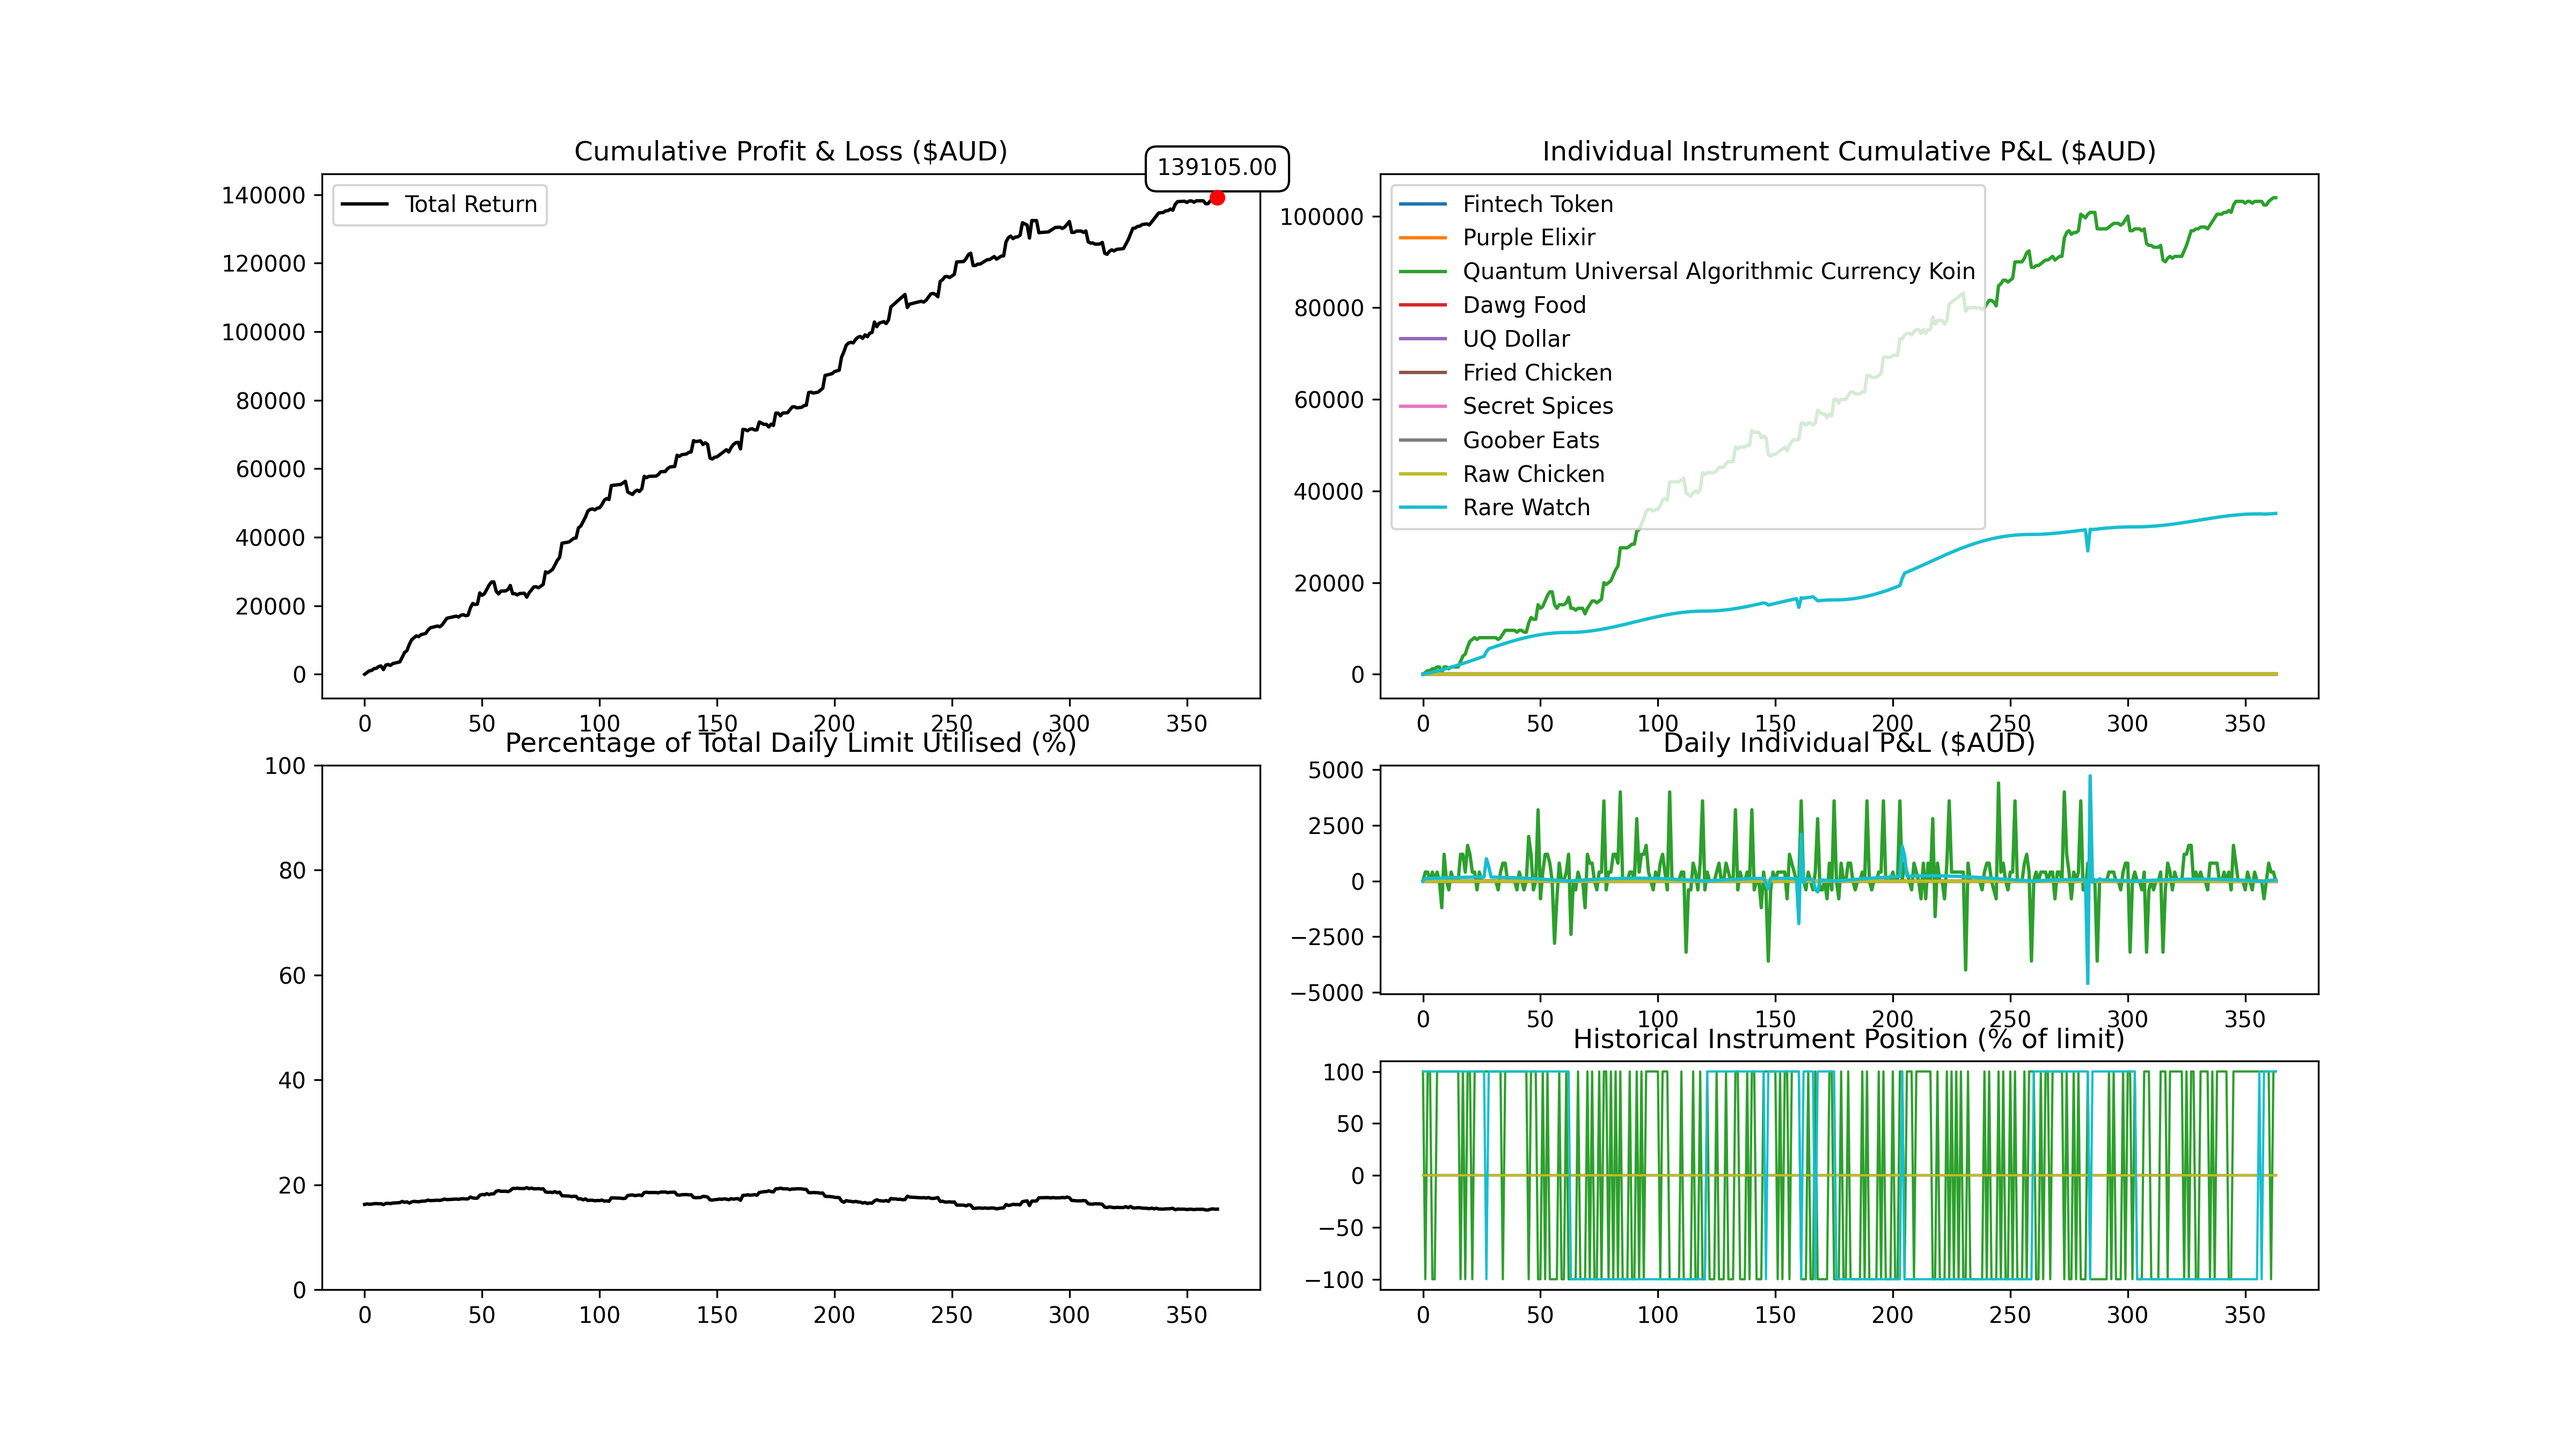
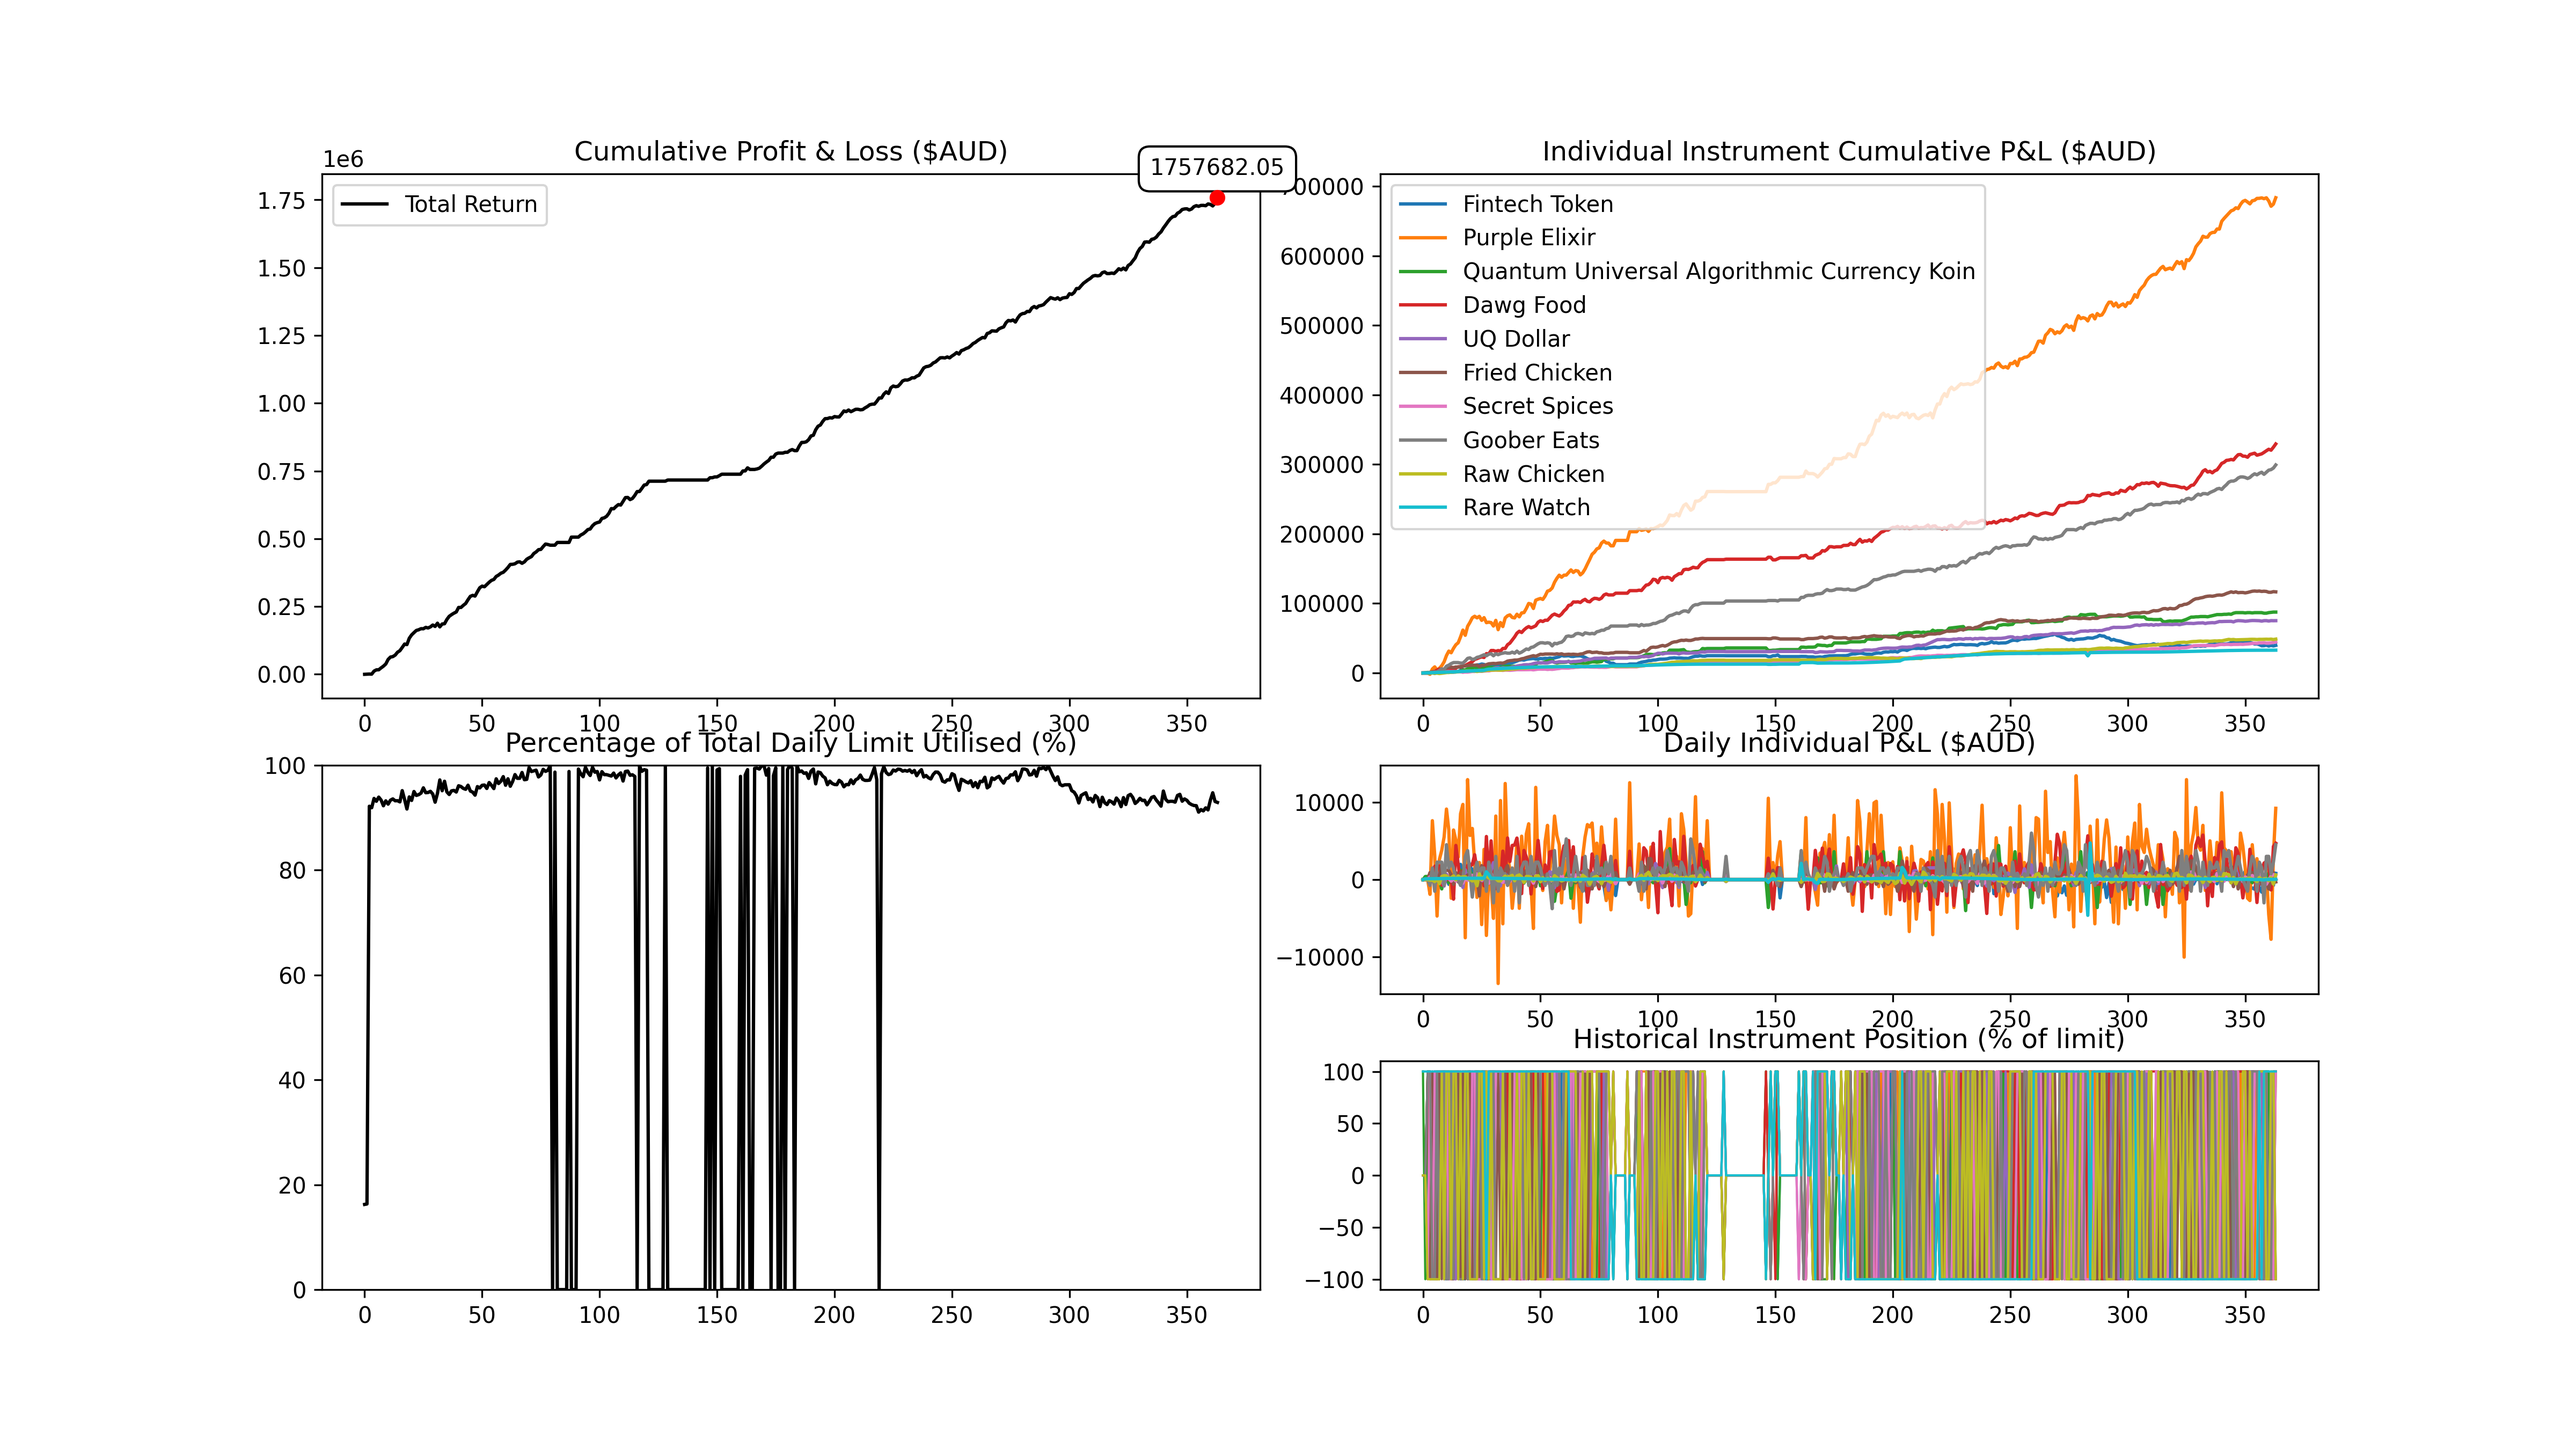
EMA

diff --git a/trader_interface/algorithm.py b/trader_interface/algorithm.py
@@ -42,13 +42,15 @@ class Algorithm():
         # Display the current trading day
         print("Starting Algorithm for Day:", self.day)
         
+        trade_instruments = list(positionLimits.keys())
+
+        # Display the prices of instruments I want to trade
+        for ins in trade_instruments:
+            print(f"{ins}: ${self.get_current_price(ins)}")
+
+
         # BENCH MARK -- 1409403
-        # trade_instruments = list(positionLimits.keys())
-        
-        # # Display the prices of instruments I want to trade
-        # for ins in trade_instruments:
-        #     print(f"{ins}: ${self.get_current_price(ins)}")
-        
+
         # # Start trading from Day 2 onwards. Buy if price dropped and sell if price rose compared to the previous day
         # if self.day >= 2:
         #     for ins in trade_instruments:
@@ -58,17 +60,41 @@ class Algorithm():
         #         else:
         #             desiredPositions[ins] = -positionLimits[ins]
 
+        # BENCH MARK 2
+        ema_period = 7  # EMA lookback period - TODO adjust for different instruments
+
+        # We need enough data to calculate EMA
+        if self.day >= ema_period:
+            for ins in trade_instruments:
+                current_price = self.data[ins][-1]
+                prices = self.data[ins][-ema_period:]
+                ema = self.calculate_ema(prices, ema_period)
+
+                # Decision logic based on price vs EMA relationship
+                if current_price < ema:  # Price below EMA - potential buy signal
+                    desiredPositions[ins] = positionLimits[ins]
+                else:  # Price above EMA - potential sell signal
+                    desiredPositions[ins] = -positionLimits[ins]
+
+        # For early days when we don't have enough data for EMA
+        elif self.day >= 2:
+            for ins in trade_instruments:
+                # Fallback to simple price comparison strategy
+                if self.data[ins][-2] > self.data[ins][-1]:  # if price has gone down buy
+                    desiredPositions[ins] = positionLimits[ins]
+                else:
+                    desiredPositions[ins] = -positionLimits[ins]
+
 
         QUACK = "Quantum Universal Algorithmic Currency Koin"
         RW = "Rare Watch"
-
+        PE = "Purple Elixir"
         # QUACK
-        # buy - historically more likely to go up
+        # buy when less than avg - historically more likely to go up OR if price dropped
         if self.data[QUACK][-1] <= 2.2 or (self.day >= 2 and self.data[QUACK][-2] > self.data[QUACK][-1]):
             desiredPositions[QUACK] = positionLimits[QUACK]
         else: # short
              desiredPositions[QUACK] = -positionLimits[QUACK]
-
 
         # RW
         pattern, _ = self.rw_helper(self.data[RW])
@@ -95,6 +121,13 @@ class Algorithm():
         # sudden rise - short
         if pattern == "sudden_rise":
             desiredPositions[RW] = -positionLimits[RW]
+
+        # # PE
+        # # buy when less than avg - historically more likely to go up OR if price dropped
+        # if self.data[PE][-1] <= 8.5 or (self.day >= 2 and self.data[PE][-2] > self.data[PE][-1]):
+        #     desiredPositions[PE] = positionLimits[PE]
+        # else: # short
+        #      desiredPositions[PE] = -positionLimits[PE]
 
 
 
@@ -143,3 +176,23 @@ class Algorithm():
                     confidence = abs(Δ) / threshold
 
         return pattern, confidence
+
+
+
+    def calculate_ema(self, prices, period):
+        """Calculate Exponential Moving Average for a list of prices"""
+        # Start with simple moving average
+        sma = sum(prices[:period]) / period
+
+        # Calculate multiplier
+        multiplier = 2 / (period + 1)
+
+        # Initialize EMA with SMA
+        ema = sma
+
+        # Calculate EMA
+        for price in prices[period:]:
+            ema = price * multiplier + ema * (1 - multiplier)
+
+        return ema
+
